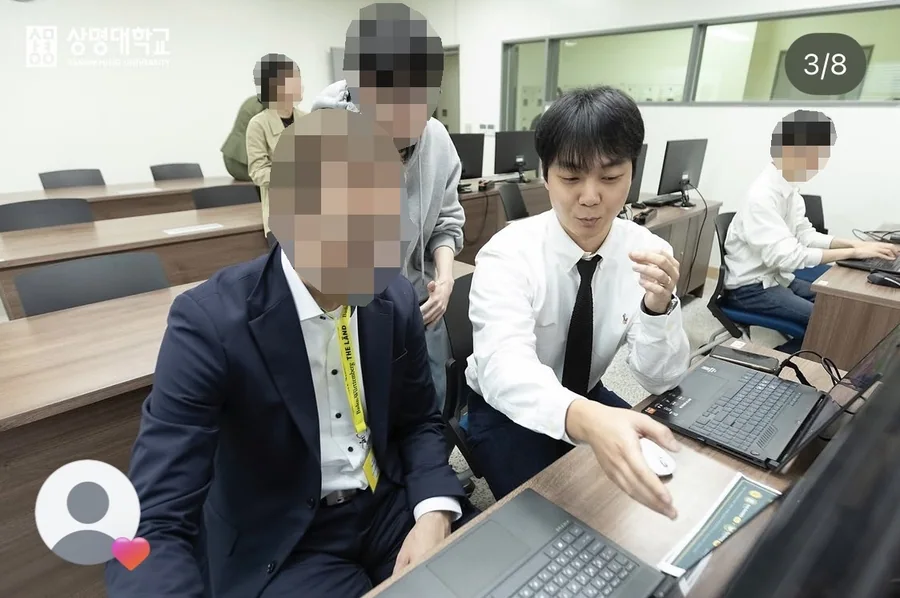
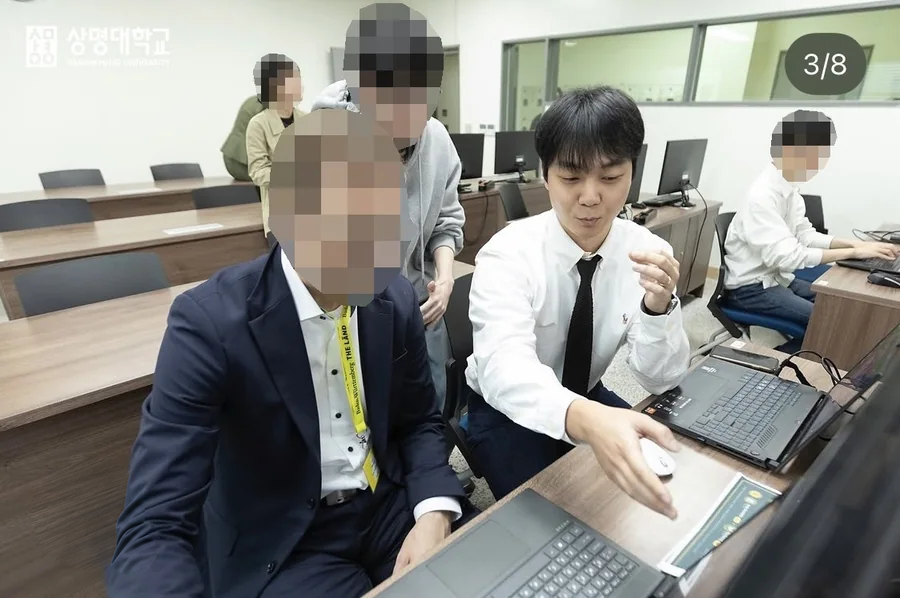
Remove the Instagram reaction overlay from the FLIP SIDE demo crop

Changed region(s): [[0.0311, 0.7525, 0.1867, 0.9632]]

diff --git a/projects/flip-side/index.html b/projects/flip-side/index.html
@@ -160,7 +160,7 @@
         <h3>German games industry visit</h3>
         <time class="flip-event-date" datetime="2026-11-16">Nov 16, 2026</time>
         <div class="flip-event-photos flip-event-post">
-          <a href="/assets/flip-german-visit-demo.webp"><img src="/assets/flip-german-visit-demo.webp" width="900" height="598" alt="Jinsoo demonstrating FLIP SIDE to a visitor" loading="lazy" decoding="async"></a>
+          <a href="/assets/flip-german-visit-demo.webp?v=13742c3e65"><img src="/assets/flip-german-visit-demo.webp?v=13742c3e65" width="900" height="598" alt="Jinsoo demonstrating FLIP SIDE to a visitor" loading="lazy" decoding="async"></a>
           <a href="/assets/flip-german-visit.webp?v=post" aria-label="Enlarge Sangmyung University’s full Instagram post about the visit"><img class="flip-post-screenshot" src="/assets/flip-german-visit.webp?v=post" width="1124" height="2236" alt="Full university post with its account name and Korean caption" loading="lazy" decoding="async"></a>
         </div>
         <p>We demonstrated FLIP SIDE to the visiting delegation at Sangmyung University.</p>
